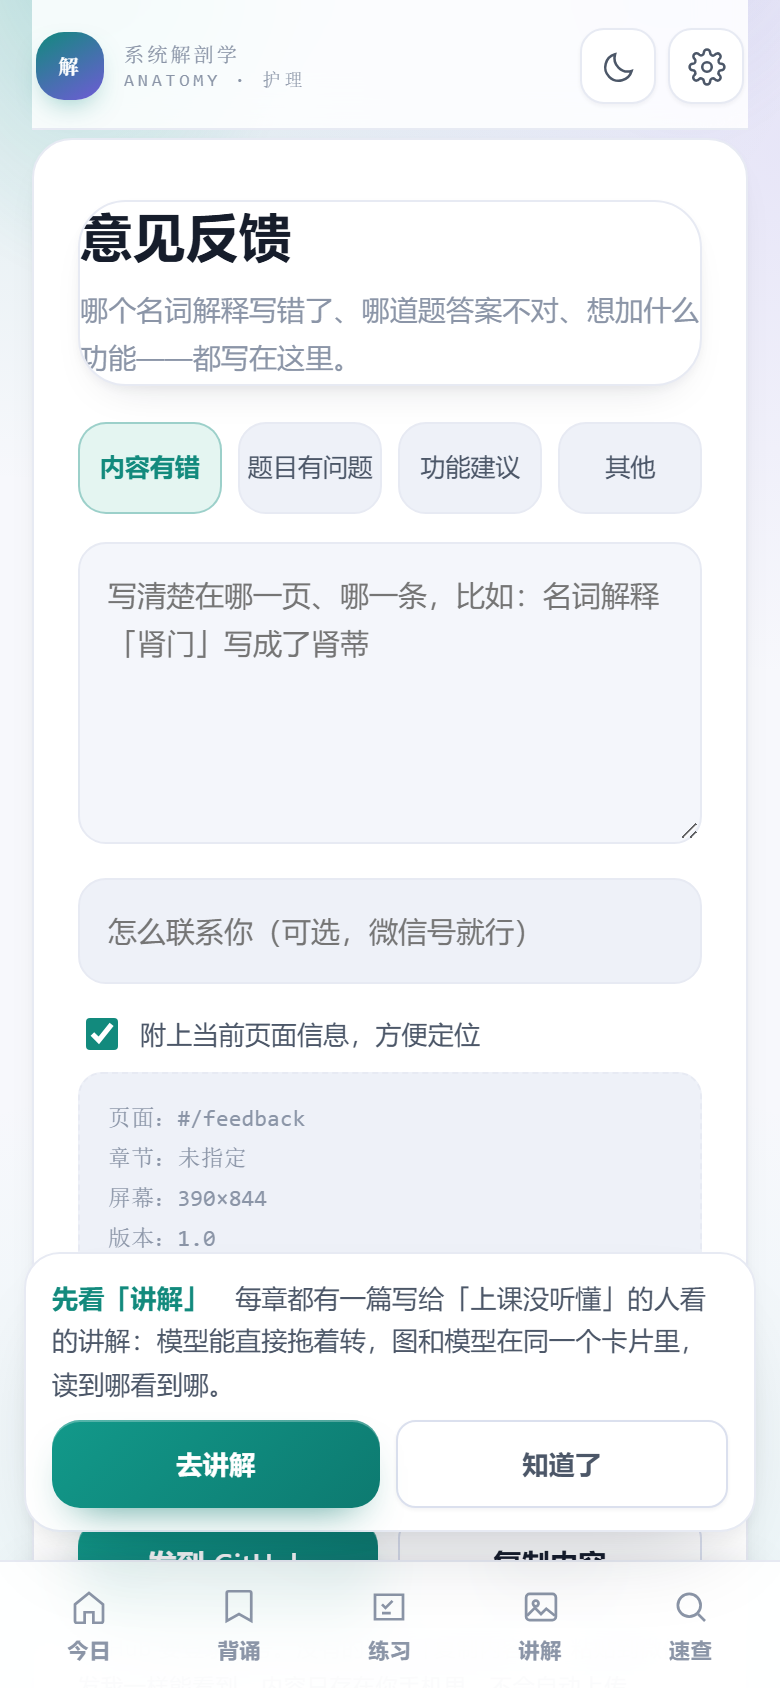
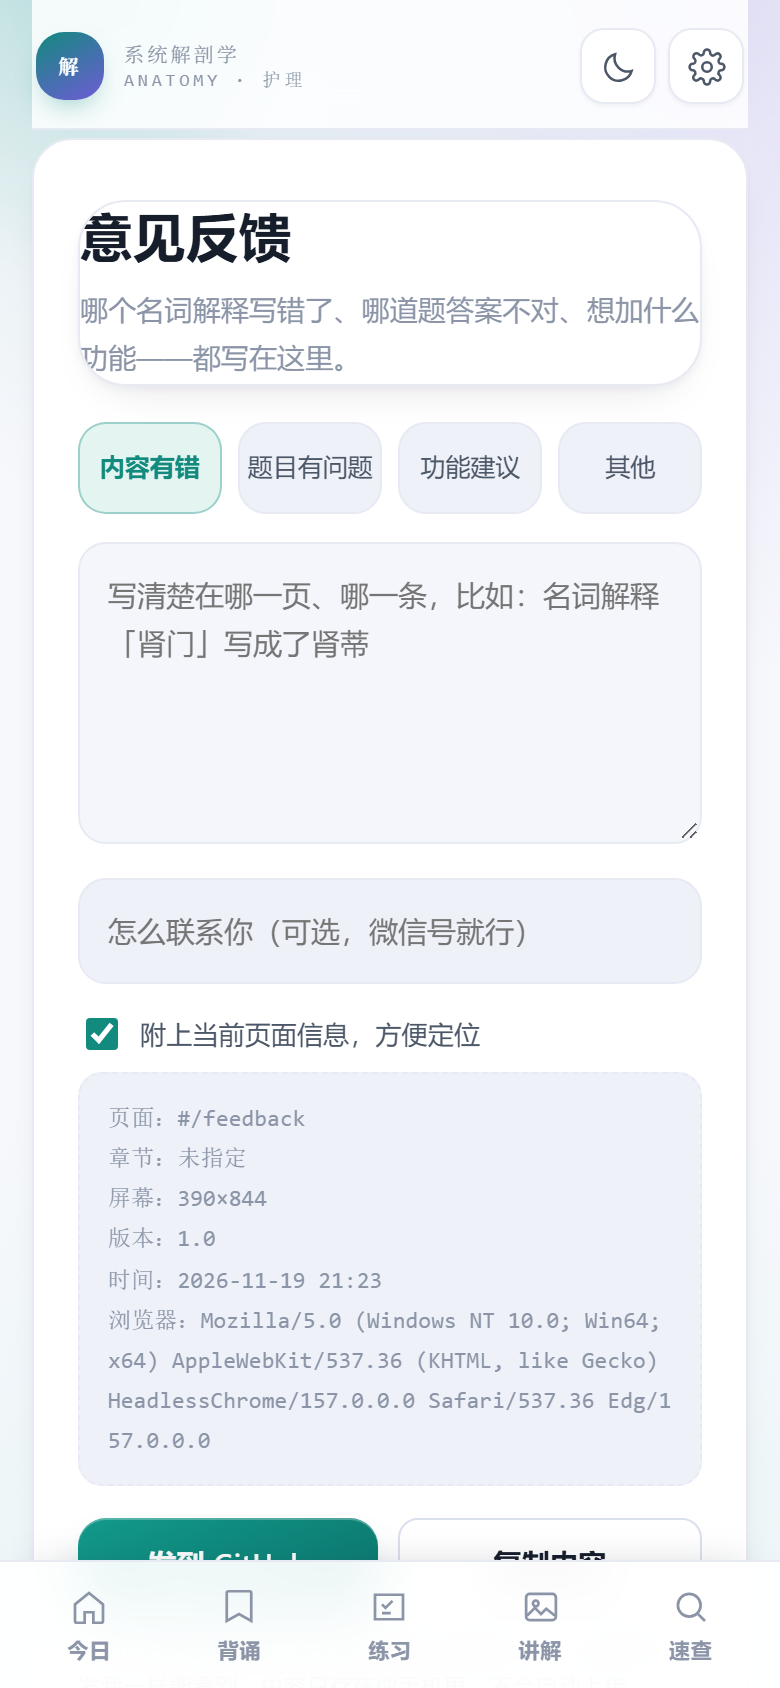
反馈：精简设备信息、手机底部留白

Changed region(s): [[0.0615, 0.7393, 0.8923, 0.9242]]

diff --git a/index.html b/index.html
@@ -11,8 +11,8 @@
 <link rel="icon" href="favicon.svg" type="image/svg+xml">
 <link rel="apple-touch-icon" href="favicon.svg">
 <link rel="manifest" href="manifest.webmanifest">
-<link rel="stylesheet" href="assets/css/app.css?v=12">
-  <link rel="stylesheet" href="assets/css/theme.css?v=12">
+<link rel="stylesheet" href="assets/css/app.css?v=13">
+  <link rel="stylesheet" href="assets/css/theme.css?v=13">
 </head>
 <body>
 <div class="app">
@@ -35,15 +35,15 @@
 </div>
 <div id="modal"></div>
 
-<script src="assets/js/data/core.js?v=12"></script>
-<script src="assets/js/data/terms.js?v=12"></script>
-<script src="assets/js/data/qa.js?v=12"></script>
-<script src="assets/js/data/mcq.js?v=12"></script>
-<script src="assets/js/data/fill.js?v=12"></script>
-<script src="assets/js/data/vocab.js?v=12"></script>
-<script src="assets/js/data/images.js?v=12"></script>
-<script src="assets/js/data/lecture.js?v=12"></script>
-<script src="assets/js/app.js?v=12"></script>
+<script src="assets/js/data/core.js?v=13"></script>
+<script src="assets/js/data/terms.js?v=13"></script>
+<script src="assets/js/data/qa.js?v=13"></script>
+<script src="assets/js/data/mcq.js?v=13"></script>
+<script src="assets/js/data/fill.js?v=13"></script>
+<script src="assets/js/data/vocab.js?v=13"></script>
+<script src="assets/js/data/images.js?v=13"></script>
+<script src="assets/js/data/lecture.js?v=13"></script>
+<script src="assets/js/app.js?v=13"></script>
 <script>
 if ('serviceWorker' in navigator && location.protocol.startsWith('http')) {
   window.addEventListener('load', function () {

diff --git a/assets/js/app.js b/assets/js/app.js
@@ -1597,6 +1597,14 @@
   var FB_CATS = ['内容有错', '题目有问题', '功能建议', '其他'];
   var FB_REPO = 'https://github.com/zhuiming2333/anatomy-nursing/issues/new';
 
+  function uaShort() {
+    var u = navigator.userAgent || '';
+    var name = /Edg\//.test(u) ? 'Edge' : /Firefox\//.test(u) ? 'Firefox'
+      : /Chrome\//.test(u) ? 'Chrome' : /Safari\//.test(u) ? 'Safari' : '浏览器';
+    var m = u.match(/Edg\/([\d.]+)/) || u.match(/Firefox\/([\d.]+)/)
+      || u.match(/Chrome\/([\d.]+)/) || u.match(/Version\/([\d.]+)/);
+    return name + (m ? ' ' + m[1].split('.')[0] : '');
+  }
   function fbChapterName() {
     var id = AT.chapter, name = '';
     CH.forEach(function (c) { if (c.id === id) name = (c.name || c.title || c.id); });
@@ -1610,7 +1618,7 @@
       '屏幕：' + window.innerWidth + '×' + window.innerHeight,
       '版本：' + (META.version || '1.0'),
       '时间：' + d.getFullYear() + '-' + pad(d.getMonth() + 1) + '-' + pad(d.getDate()) + ' ' + pad(d.getHours()) + ':' + pad(d.getMinutes()),
-      '浏览器：' + (navigator.userAgent || '')
+      '设备：' + uaShort() + ' · ' + (navigator.platform || '未知')
     ].join('\n');
   }
   function fbBuild() {

diff --git a/assets/css/theme.css b/assets/css/theme.css
@@ -869,3 +869,8 @@ body::before{
 .fb-card .learn-hd p{ margin:0 !important; font-size:14px; line-height:1.75; }
 .fb-cat{ font-size:12.5px !important; padding:11px 4px !important; white-space:nowrap; letter-spacing:0; min-height:46px; }
 @media (max-width:360px){ .fb-cat{ font-size:11.5px !important; } }
+/* 手机：底部固定导航不遮内容 */
+@media (max-width:899px){
+  main.view{ padding-bottom:calc(78px + env(safe-area-inset-bottom,0px)); }
+}
+.fb-card{ margin-bottom:18px !important; }

diff --git a/sw.js b/sw.js
@@ -1,6 +1,6 @@
 /* 离线缓存：页面/样式/脚本走「网络优先」（保证改版立刻生效），
    图片与 3D 大包走「缓存优先」（省流量、离线可看） */
-var CACHE = 'anat-v12';
+var CACHE = 'anat-v13';
 var CORE = [
   './',
   './index.html',
